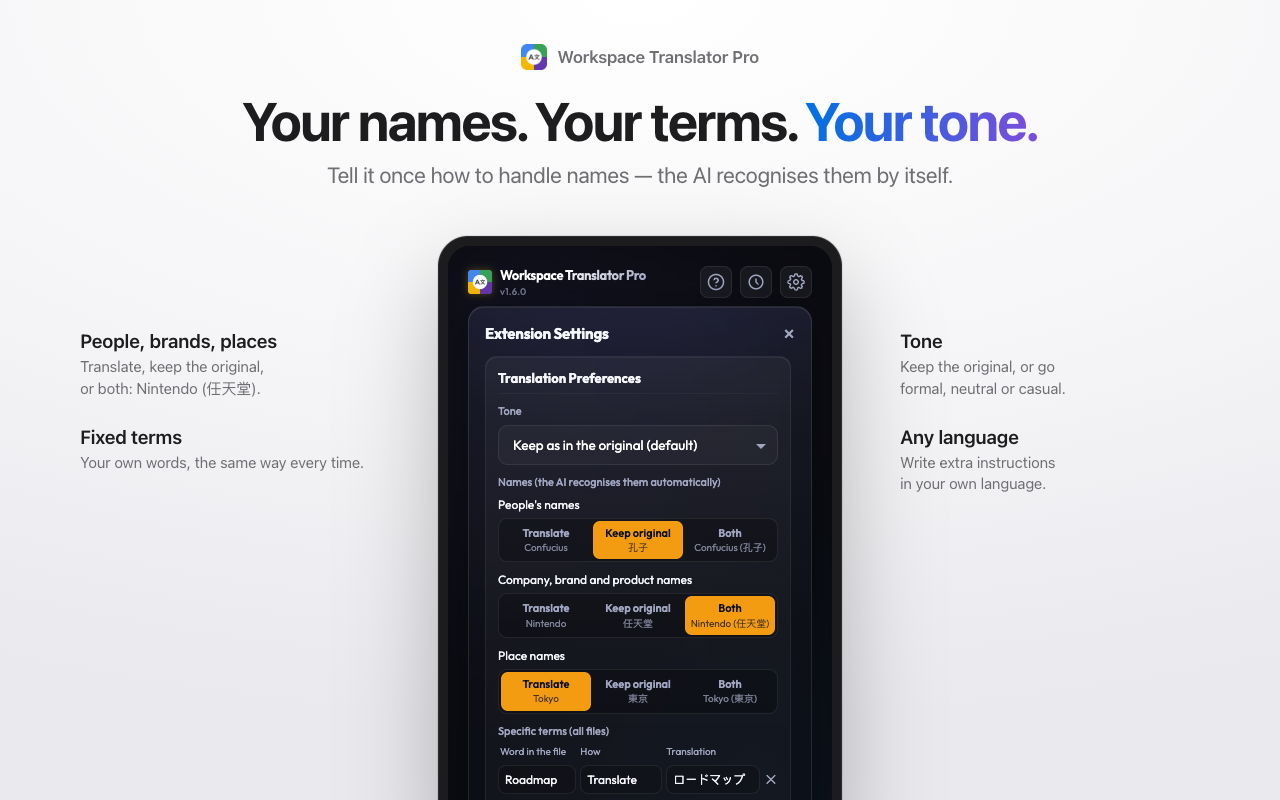
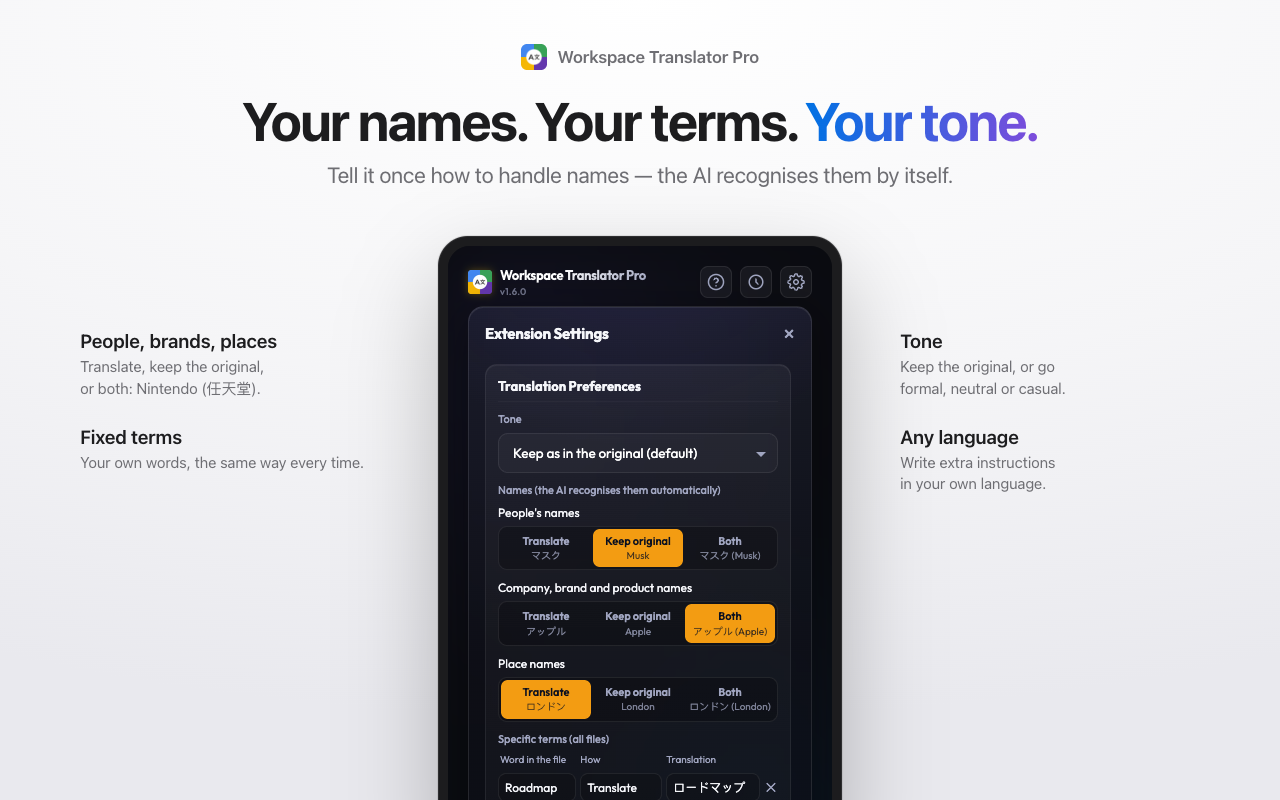
ui+store: spotlight instead of red outlines; Musk/Apple/London name examples; After Translation photo
- Demo highlight dims everything around the feature and gives it a soft glow
  (guide + store images); guide caption updated in 10 languages.
- Name-mode examples use Musk / Apple / London in every UI language (Latin-
  script UIs show the Japanese form as the translated example).
- Sheets photo now features the After Translation settings (auto-open copy,
  fit longer text).

diff --git a/lib/demo-mode.js b/lib/demo-mode.js
@@ -97,8 +97,8 @@
   const mark = (sel) => { if (highlight) $(sel)?.classList.add('demo-highlight'); };
   // Optional explicit outlines (?marks=lang,range,…) — used by the store photos.
   const MARKS = {
-    lang: '#select-lang', range: '#scope-slides', sheet: '#scope-sheet', translate: '#btn-translate',
-    names: '.name-modes', terms: '#terms-global', tone: '#pref-tone', done: '#completion-card',
+    job: '#job-options', lang: '#select-lang', range: '#scope-slides', sheet: '#scope-sheet', translate: '#btn-translate',
+    names: '.name-modes', terms: '#terms-global', tone: '#pref-tone', done: '#completion-card', result: '#fit-text',
   };
   const explicitMarks = (params.get('marks') || '').split(',').filter((k) => MARKS[k]);
 
@@ -136,8 +136,9 @@
         // Scroll only the settings list. scrollIntoView() would also scroll the
         // page that embeds this panel (the user guide).
         const sc = document.querySelector('#settings-panel .settings-scroll-container');
-        const target = params.get('scroll') === 'terms'
-          ? document.querySelector('#terms-global').parentElement
+        const scrollTo = params.get('scroll');
+        const target = scrollTo === 'terms' ? document.querySelector('#terms-global').parentElement
+          : scrollTo === 'result' ? document.querySelector('#fit-text').closest('.setting-group-card')
           : document.querySelector('#prefs-card');
         sc.scrollTop += target.getBoundingClientRect().top - sc.getBoundingClientRect().top - 8;
         mark('.name-modes');
@@ -145,7 +146,11 @@
         mark('#btn-test-api');
       }
     }
-    for (const key of explicitMarks) $(MARKS[key])?.classList.add('demo-highlight');
+    for (const key of explicitMarks) {
+      const el = $(MARKS[key]);
+      // a checkbox mark spotlights its whole settings card
+      (key === 'result' ? el?.closest('.setting-group-card') : el)?.classList.add('demo-highlight');
+    }
     finish();
     document.documentElement.dataset.demoReady = '1';
   }

diff --git a/popup.css b/popup.css
@@ -1700,12 +1700,10 @@ input::placeholder, textarea::placeholder { color: rgba(255, 255, 255, 0.28); }
 
 /* ── Demo mode (lib/demo-mode.js): user-guide illustrations ─────────────── */
 .demo-highlight {
-  outline: 2px solid #ff7675;
-  outline-offset: 3px;
-  border-radius: 10px;
-  animation: demoPulse 1.6s ease-in-out infinite;
+  /* Spotlight: everything else dims, the feature stays bright with a soft
+     glow — no hard outline. One spotlight per screen (shadows would stack). */
+  position: relative; z-index: 50; border-radius: 12px;
+  box-shadow: 0 0 0 1px rgba(255, 255, 255, 0.18), 0 0 24px 2px color-mix(in srgb, var(--accent) 45%, transparent),
+              0 0 0 9999px rgba(6, 7, 12, 0.62);
 }
-@keyframes demoPulse {
-  0%, 100% { box-shadow: 0 0 0 0 rgba(255, 118, 117, 0.55); }
-  50% { box-shadow: 0 0 0 8px rgba(255, 118, 117, 0); }
-}
+

diff --git a/store-assets/retouch.py b/store-assets/retouch.py
@@ -29,21 +29,21 @@ import json
 # and a caption card names the language first, then the feature.
 PHOTOS = [
     dict(key='slide', accent='#e37400', lang_name='Tiếng Việt', panel=dict(
-            demo='main', type='presentation', title='Google_IO_2026', lang='vi', range='3-8', marks='lang,range'),
+            demo='main', type='presentation', title='Google_IO_2026', lang='vi', range='3-8', marks='job'),
          title='Pick the language — and the slides',
          sub='Translate the whole deck or only slides\u00a03\u20118. Every layout stays exactly as it was.'),
     dict(key='doc', accent='#1a73e8', lang_name='繁體中文', panel=dict(
             demo='prefs', type='document', title='Hezbollah rejects renewed ceasefire agreed by Israel and Lebanon',
-            lang='zh-TW', tone='formal', marks='tone,names',
+            lang='zh-TW', tone='formal', marks='names',
             names=json.dumps({'people': 'keep', 'brands': 'keep', 'places': 'translate'}),
             terms=json.dumps([{'src': 'Hezbollah', 'mode': 'keep', 'dst': ''},
                               {'src': 'ceasefire', 'mode': 'translate', 'dst': '停火'}], ensure_ascii=False)),
          title='Names stay as they are',
-         sub='Keep people’s and brand names, translate places, pick a formal tone — the AI spots names by itself.'),
+         sub='Keep people’s and brand names, translate places — the AI spots names by itself.'),
     dict(key='sheets', accent='#188038', lang_name='English', panel=dict(
-            demo='done', type='spreadsheet', title='Projektcontrolling_Tabelle', lang='en', sheetOnly='1', marks='sheet'),
-         title='A translated copy in minutes',
-         sub='Translate the whole workbook or only the sheet you’re on. Columns widen to fit longer text.'),
+            demo='prefs', type='spreadsheet', title='Projektcontrolling_Tabelle', lang='en', scroll='result', marks='result'),
+         title='Longer text still fits',
+         sub='Columns widen and slide fonts shrink automatically — and the translated copy opens as soon as it’s ready.'),
     dict(key='form', accent='#7248b9', lang_name='Español', panel=dict(
             demo='prefs', type='form', title='高級ファッションブランドに関する消費者調査', lang='es', scroll='terms', marks='terms',
             terms=json.dumps([{'src': 'ブランド', 'mode': 'translate', 'dst': 'marca'},
